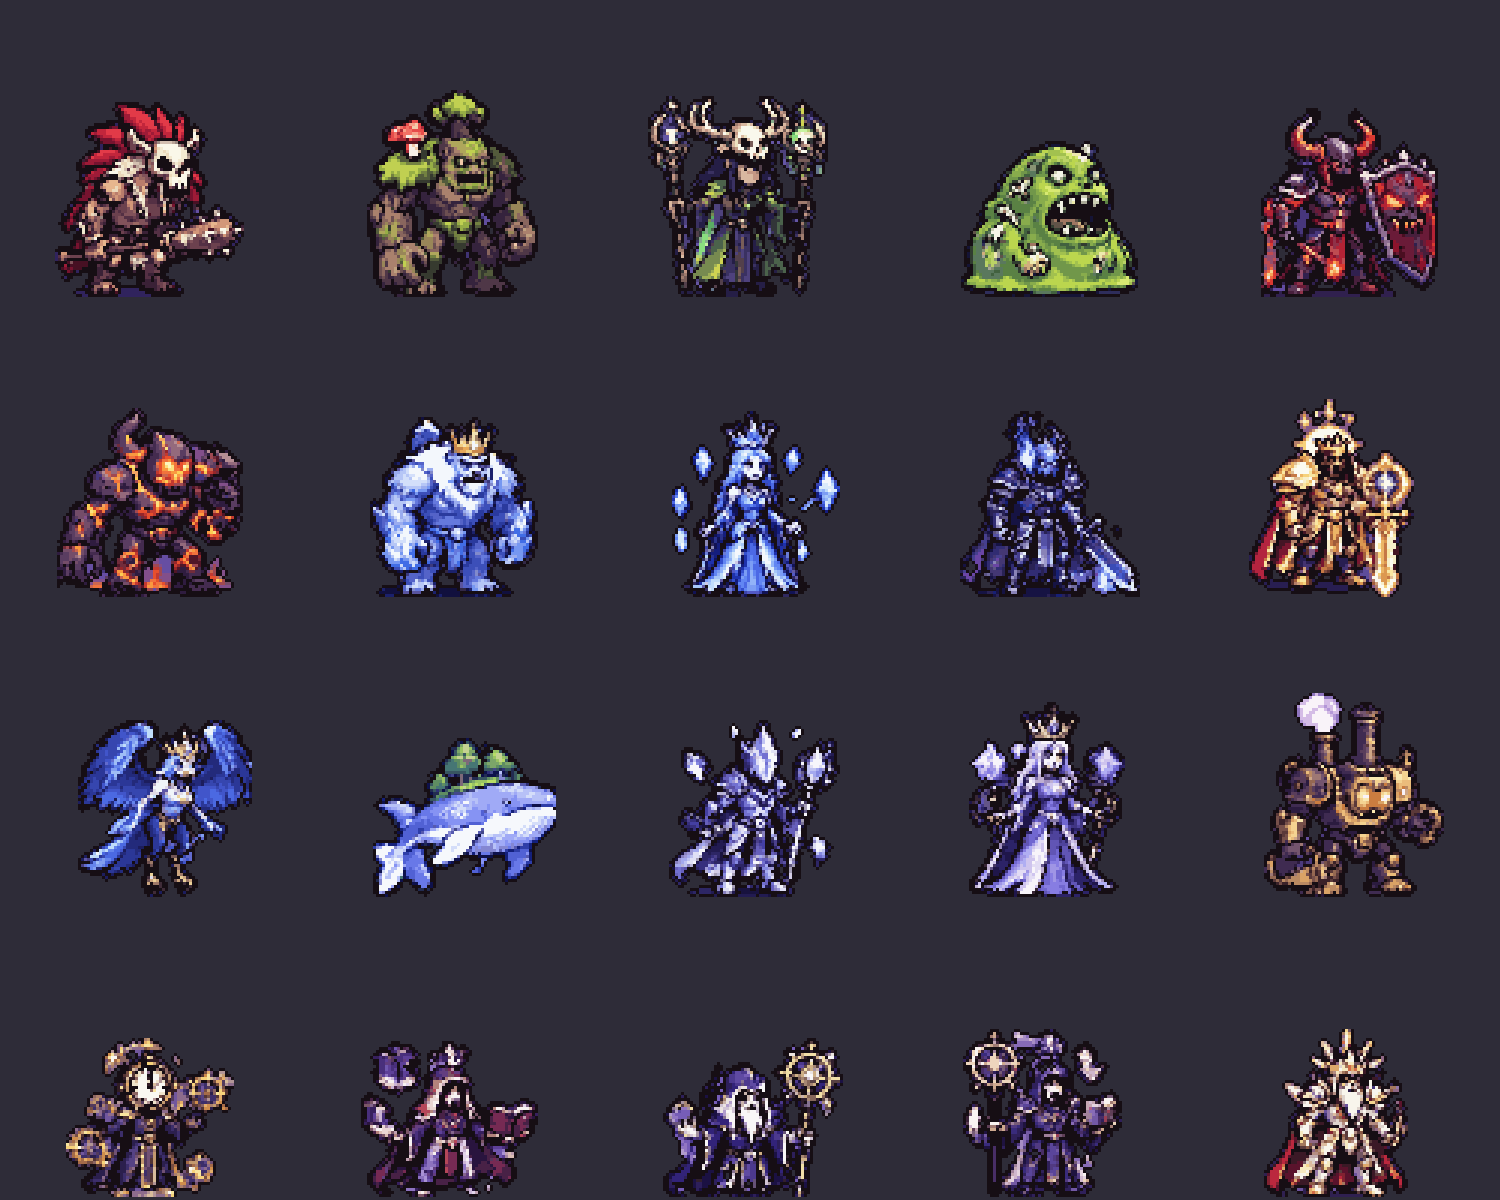
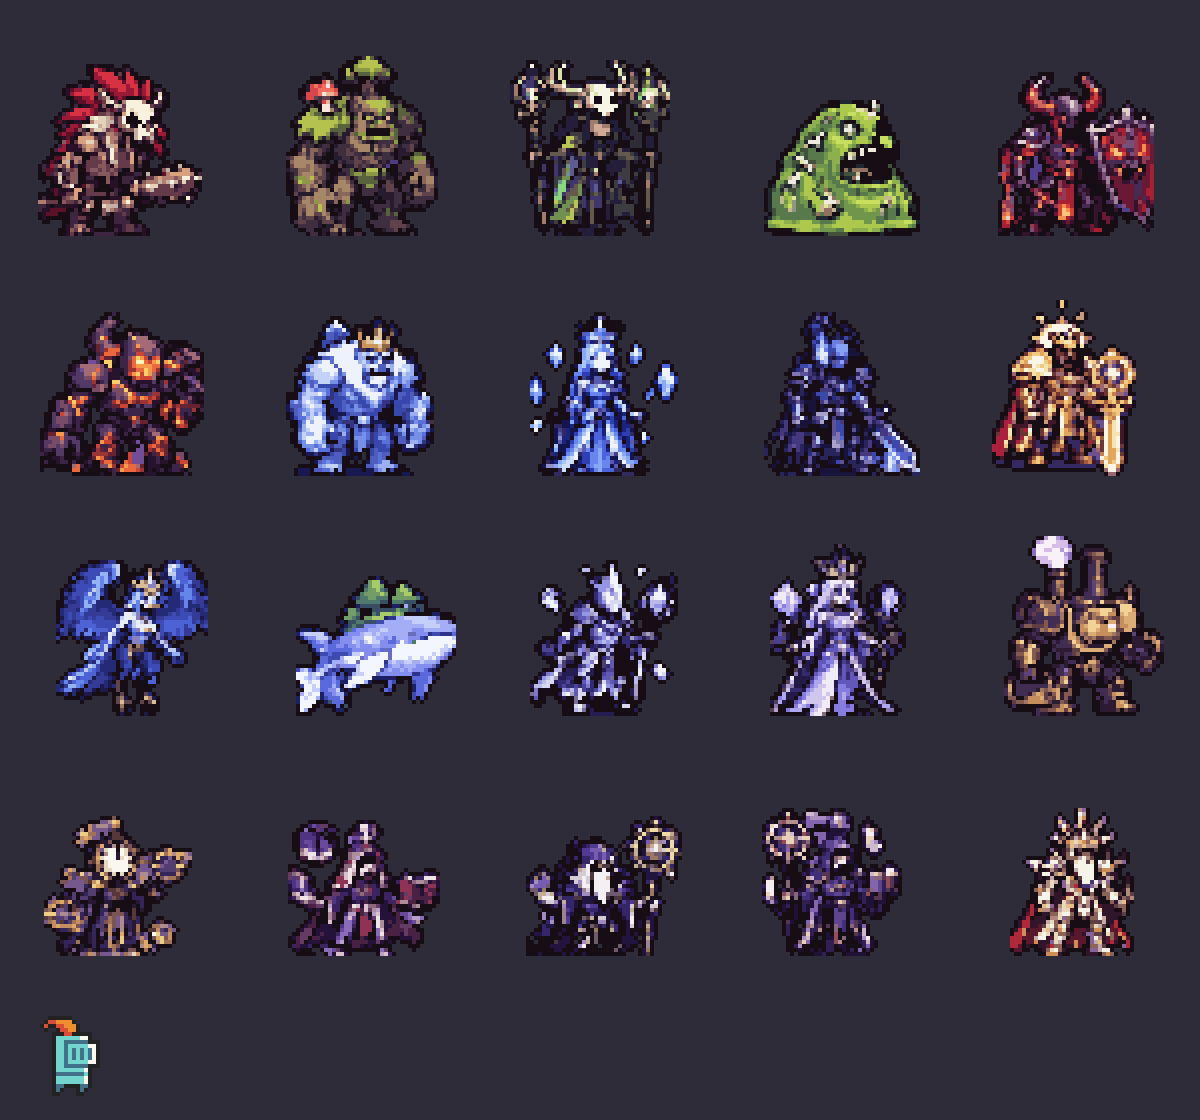
보스 도트 정리: 원본 3×3 칸 = 게임 픽셀 하나(키 약 45px · 플레이어처럼 덩어리로), 보스마다 14색, 잡티 정리 두 번 · 외곽선은 한 번, 가면 족장 장면도 다시
Claude-Session: https://claude.ai/code/session_01BGWizNepEyNmsyyJkBW7hP

diff --git a/tools/cut_bosses.py b/tools/cut_bosses.py
@@ -91,6 +91,7 @@ SCALE = {**{k: 0.66 for k in LORDS}, 'engraveKing': 0.72, 'lastKing': 0.72, 'sky
 
 # ───── 도트 따기: AI 그림은 한 점이 약 2px인 번진 그림이라, 섞어서 줄이지 않고 2×2 칸마다 대표색 하나를 고른다 ─────
 OUTL = (22, 14, 20, 255)
+PIX, COLORS = 3, 14  # 원본 3×3 칸 = 게임 픽셀 하나 · 보스마다 14색 (플레이어 그림체처럼 덩어리로)
 def pixelize(fr, k=2):
     a = np.array(fr).astype(int); H, W, _ = a.shape
     best = None
@@ -120,7 +121,7 @@ def palette_all(frames, n):
         out.append(Image.fromarray(np.dstack([q, al]).astype(np.uint8), 'RGBA'))
     return out
 
-def clean(f):
+def clean(f, line=True):
     # 잡티: 여덟 이웃 누구와도 같지 않고 이웃 대부분이 한 색이면 그 색으로 · 떨어진 점 지우기 · 짙은 색은 외곽선 색으로 · 1px 외곽선
     a = np.array(f).astype(int); H, W, _ = a.shape; o = a.copy()
     for y in range(1, H - 1):
@@ -146,6 +147,7 @@ def clean(f):
     bgsh = np.abs(o[:, :, :3] - np.array([72, 54, 128])).sum(2) < 60
     bgsh[: max(0, H - 5)] = False; o[bgsh & (o[:, :, 3] > 0), 3] = 0
     dark = (o[:, :, :3].sum(2) < 95) & (o[:, :, 3] > 0); o[dark] = OUTL
+    if not line: return Image.fromarray(o.astype(np.uint8), 'RGBA')
     al = o[:, :, 3] > 0; out = o.copy()
     for y in range(H):
         for x in range(W):
@@ -169,8 +171,8 @@ def build():
     for boss, frs in res.items():
         frames = [f for f, _ in frs]
         sc = SCALE.get(boss, 0.6)
-        small = [pixelize(f.crop(f.getbbox())) for f in frames]  # 원본의 점 하나 = 게임 픽셀 하나
-        small = [clean(s) for s in palette_all(small, 24)]
+        small = [pixelize(f.crop(f.getbbox()), PIX) for f in frames]  # 원본의 점 하나 = 게임 픽셀 하나
+        small = [clean(clean(s, False)) for s in palette_all(small, COLORS)]  # 잡티 정리는 두 번
         anc = [anchor(s) for s in small]
         L = max(ax for ax, _ in anc) + 2; R = max(s.width - ax for s, (ax, _) in zip(small, anc)) + 2
         T = max(ay for _, ay in anc) + 2
